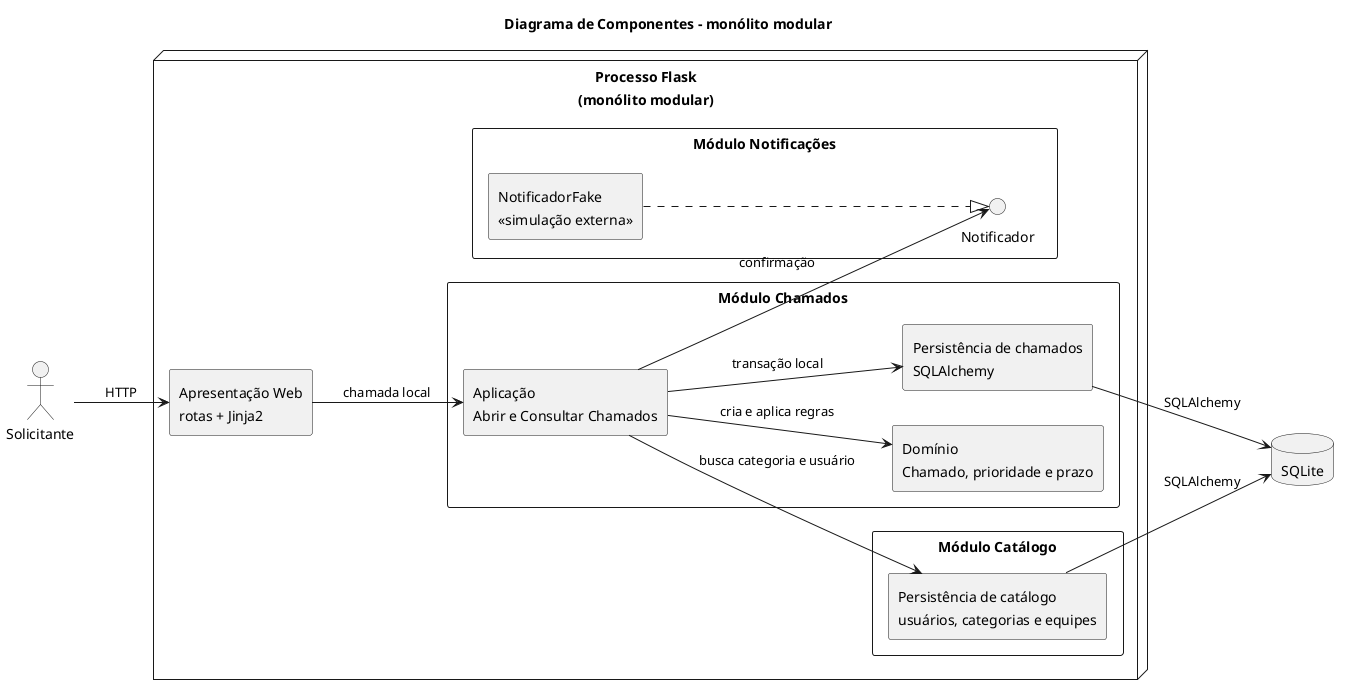
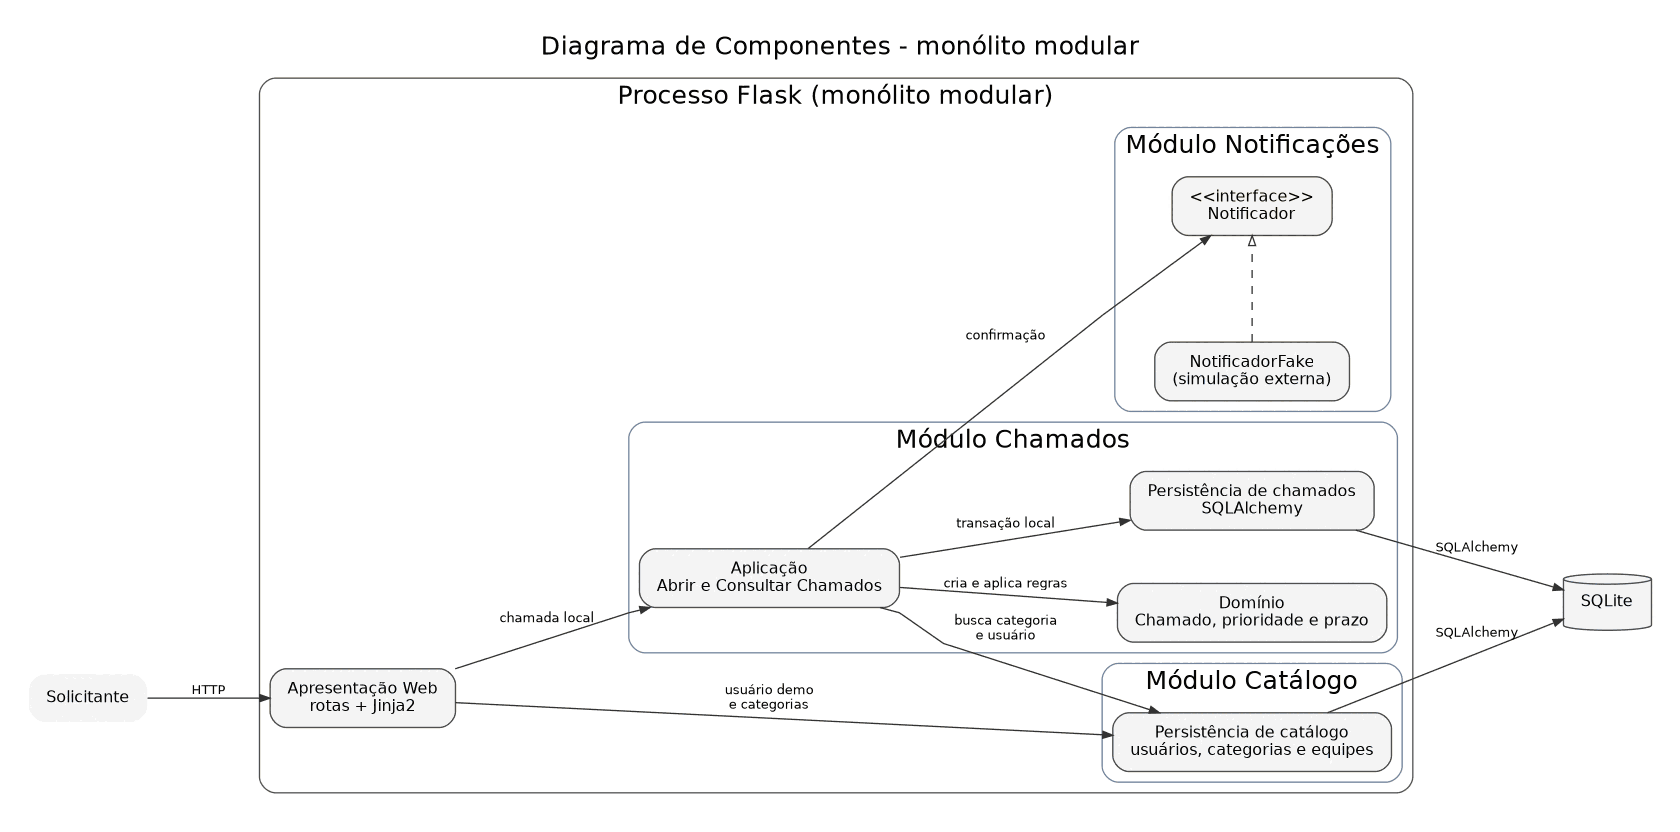
docs: alinhar arquitetura, diagrama e cenários de evolução

diff --git a/docs/evolucao.md b/docs/evolucao.md
@@ -55,3 +55,78 @@ provedor lento aumenta o tempo de resposta. Como o chamado é confirmado antes d
 notificação, a indisponibilidade externa não desfaz o registro. Se a confiabilidade
 da entrega se tornar um ASR, será necessário avaliar fila e processamento
 assíncrono, aceitando consistência eventual e maior operação.
+
+## 3. Inclusão de aplicativo móvel
+
+### Elementos afetados
+
+- nova apresentação móvel e uma API HTTP para receber e devolver dados;
+- identificação e autorização do solicitante, hoje fixado na configuração da
+  demonstração;
+- validação e respostas HTTP em formato adequado ao novo cliente;
+- testes das rotas da API e do isolamento entre solicitantes.
+
+### Elementos que permanecem
+
+- **Chamado**, **MatrizPrioridade**, **PoliticaPrazo** e regras de abertura;
+- serviços de aplicação e repositórios, desde que recebam o solicitante
+  identificado pela nova apresentação;
+- transação local entre chamado e histórico.
+
+### Decisões que ajudam ou dificultam
+
+A separação entre apresentação e aplicação permite reutilizar o caso de uso.
+Entretanto, as rotas atuais foram feitas para formulários e templates Jinja, e o
+usuário de demonstração é fixo. A API exigiria autenticação e autorização reais;
+não basta expor as rotas atuais ao aplicativo. Duas apresentações também aumentam
+o trabalho de versionar contratos e testar os fluxos nos dois clientes.
+
+## 4. Aumento significativo de carga
+
+### Elementos afetados
+
+- servidor de execução e configuração de implantação; o servidor de
+  desenvolvimento Flask não atende a uma implantação institucional;
+- SQLite, conexões, índices e consultas, após medir o padrão real de leitura e
+  escrita; PostgreSQL é uma alternativa para maior concorrência;
+- testes de carga e observabilidade para localizar gargalos;
+- latência do provedor de notificação, caso uma integração real substitua o fake.
+
+### Elementos que permanecem
+
+- a matriz de prioridade e as regras de criação do chamado;
+- as fronteiras entre módulos e a transação local entre chamado e histórico,
+  enquanto ambos permanecerem no mesmo banco.
+
+### Decisões que ajudam ou dificultam
+
+O monólito modular pode ter mais instâncias atendendo requisições com um banco
+compartilhado, mas módulos continuam escalando juntos. A migração de SQLite e o
+ajuste das consultas devem ser guiados por medidas, não apenas pelo aumento
+hipotético de usuários. O **NotificadorFake** guarda confirmações em memória de
+cada processo e não serviria como registro compartilhado entre instâncias. Uma
+integração síncrona lenta pode elevar o tempo de resposta, motivando rever a
+ADR-003 se baixa latência ou entrega confiável se tornarem ASRs.
+
+## 5. Implantação independente de uma funcionalidade
+
+### Exemplo: extrair notificações
+
+- A aplicação manteria o contrato **Notificador**, com uma implementação que
+  chamasse o serviço de notificações por HTTP ou publicasse uma mensagem.
+- Seriam necessários contrato de rede, configuração, autenticação entre serviços,
+  tratamento de indisponibilidade e observabilidade.
+- Com uma chamada síncrona após o commit, uma falha ainda deixa o chamado gravado,
+  mas não há repetição automática. Se a entrega garantida for exigida, uma
+  intenção de notificar gravada na transação e processada depois (outbox) poderia
+  evitar a perda entre o commit e o envio; mensagens repetidas exigiriam
+  processamento idempotente.
+
+### Limite da separação
+
+A extração de notificações não precisa separar chamado e histórico, então o
+ASR-01 pode continuar com uma transação local no módulo de chamados. Separar
+chamado e histórico em bancos distintos, por outro lado, perderia essa
+atomicidade e exigiria rever o ASR-01 e a ADR-002. Implantação independente só
+se justifica diante de uma necessidade concreta que compense contratos,
+monitoramento, falhas parciais e operação adicionais.

diff --git a/docs/arquitetura.md b/docs/arquitetura.md
@@ -24,7 +24,9 @@ Arquitetura Hexagonal.
 | Notificações | Contrato de confirmação e implementação simulada. | **app/notificacoes** |
 | Infraestrutura comum | Inicialização e sessão do banco SQLite. | **app/banco.py** |
 
-Os módulos compartilham o processo e a transação local. Eles não são
+Os módulos executam no mesmo processo. Chamados e catálogo usam o banco SQLite
+compartilhado; chamado e evento inicial de histórico são gravados na mesma
+transação. A notificação ocorre depois do commit. Os módulos não são
 microsserviços e não possuem implantação ou bancos independentes.
 
 ## 3. Camadas e dependências
@@ -51,19 +53,20 @@ regras que não dependem de HTTP ou templates.
 Os repositórios SQLAlchemy convertem e persistem os objetos no SQLite.
 **NotificadorFake** simula a dependência de confirmação.
 
-Fluxo de dependência:
+Fluxo de chamadas e dependências no protótipo:
 
-~~~text
-Navegador
-  -> Apresentação
-  -> Aplicação
-  -> Domínio
-  -> Persistência SQLAlchemy
-  -> SQLite
-~~~
+- O navegador acessa a apresentação por HTTP.
+- A apresentação chama os serviços de aplicação para abrir e consultar chamados.
+  Para montar as páginas, ela também consulta diretamente os repositórios do
+  catálogo para obter o usuário de demonstração e as categorias.
+- Os serviços de aplicação usam as regras do domínio e os repositórios SQLAlchemy.
+- Os repositórios SQLAlchemy acessam o SQLite.
+- **AbrirChamadoService** depende da interface **Notificador**, implementada por
+  **NotificadorFake** nesta demonstração e escolhida na criação da aplicação.
 
-A aplicação também depende da interface **Notificador**, cuja implementação
-simulada é escolhida na criação da aplicação.
+A consulta direta do catálogo pela apresentação é uma simplificação localizada
+do protótipo. Em uma evolução com autenticação real, ela pode ser coordenada por
+um caso de uso da aplicação.
 
 ## 4. Fluxo implementado de abertura
 

diff --git a/README.md b/README.md
@@ -72,7 +72,7 @@ existe porque a dependência externa deve ser substituível.
 | [Prioridade e prazo](docs/prioridade-e-ciclo-de-vida.md) | Matriz, prazo inicial e estados considerados. |
 | [Arquitetura](docs/arquitetura.md) | Componentes, dependências, comunicação, persistência e implantação. |
 | [Trade-offs](docs/tradeoffs.md) | Comparação com monólito simples e microsserviços. |
-| [Evolução](docs/evolucao.md) | Troca de banco e de mecanismo de notificação. |
+| [Evolução](docs/evolucao.md) | Banco, notificação, aplicativo móvel, aumento de carga e implantação independente. |
 | [Plano e testes](docs/plano-implementacao-e-testes.md) | Escopo implementado e rastreabilidade dos testes. |
 | [Roteiro de defesa](docs/roteiro-defesa.md) | Sequência de apresentação e respostas concretas a perguntas prováveis. |
 
